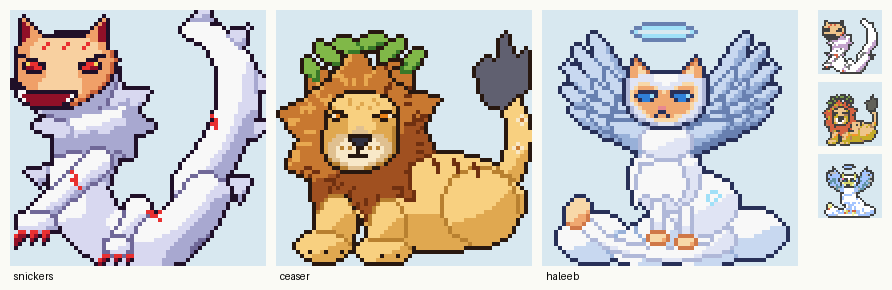
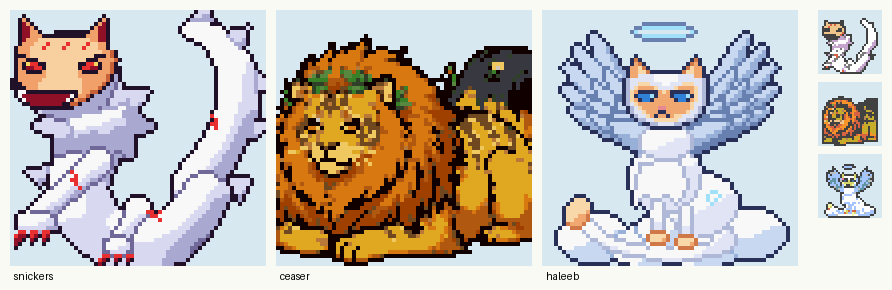
Ceaser from the new Gemini art; transparent-background art support
Ceaser's sprite is now converted from the bold, flat Gemini redraw
(source_front_v2.jpg): background cut out to transparency (so the
green laurel survives), tail tucked behind, reserved palette slots for
the leaves and tail tuft (--add-color), eyes sharpened by hand.
convert_sprite.py uses the alpha channel as the mask for transparent
images and no longer strips green from them. tools/prep_art.py cuts
plain-background art out.

Claude-Session: https://claude.ai/code/session_01BRCGKvtVfxSvTFq1kJgtBG

Changed region(s): [[0.3027, 0.0931, 0.6054, 0.931], [0.9081, 0.3103, 0.9989, 0.4966]]

diff --git a/emerald-remix/tools/convert_sprite.py b/emerald-remix/tools/convert_sprite.py
@@ -33,6 +33,7 @@ STAGE_FIT = {1: 50, 2: 58, 3: 64}
 # Back sprites are the player's own Pokémon, seen up close; the battle textbox covers their lower edge.
 BACK_FIT = {1: 56, 2: 62, 3: 64}
 TRANSPARENT = (0, 255, 0)
+EXTRA_COLORS = []  # colors always given a palette slot (--add-color), for small details like leaves
 LINE_SHARE = 0.25 # a block becomes outline color if at least this much of it is line work
 CONTRAST = 1.5    # how strongly small high-contrast details (eyes, glints) beat the block's main color
 
@@ -130,10 +131,15 @@ def clear(rgb, solid, spec):
 def load(src, recolors, lift=None, tint=(0, 0, 0), enlarges=(), crop=None, clears=()):
     im = Image.open(src)
     rgb = np.asarray(im.convert("RGB"), dtype=np.float32)
-    if "A" in im.convert("RGBA").getbands() and im.mode in ("RGBA", "LA", "P"):
-        # Transparent PNG (most pixel-art tools): see-through pixels are background.
-        alpha = np.asarray(im.convert("RGBA"))[..., 3]
-        rgb[alpha < 128] = TRANSPARENT
+    alpha = None
+    if im.mode in ("RGBA", "LA") or (im.mode == "P" and "transparency" in im.info):
+        # Transparent PNG (most pixel-art tools): see-through pixels are background, and green
+        # in the creature (leaves!) stays green instead of being keyed out.
+        alpha = np.asarray(im.convert("RGBA"))[..., 3] >= 128
+        if alpha.all():
+            alpha = None
+        else:
+            rgb[~alpha] = TRANSPARENT
     if enlarges:
         # Pad with green so an enlarged head near the edge isn't cut off, and shift every box to match.
         rgb = np.pad(rgb, ((PAD, PAD), (PAD, PAD), (0, 0)))
@@ -143,7 +149,12 @@ def load(src, recolors, lift=None, tint=(0, 0, 0), enlarges=(), crop=None, clear
         clears = [shift_box(s, PAD) for s in clears]
     for spec in enlarges:
         rgb = enlarge(rgb, spec)
-    solid = ~green_mask(rgb)
+    solid = ~green_mask(rgb) if alpha is None else np.zeros(rgb.shape[:2], bool)
+    if alpha is not None:
+        if enlarges:  # the image was padded and enlarged: transparent = exactly the key color
+            solid = (np.abs(rgb - np.asarray(TRANSPARENT)).sum(-1) > 0)
+        else:
+            solid = alpha
     if crop:
         # Keep only what's inside the box: frames a wide creature (wings, a long tail) so the
         # important part fills the sprite instead of shrinking everything.
@@ -154,7 +165,7 @@ def load(src, recolors, lift=None, tint=(0, 0, 0), enlarges=(), crop=None, clear
     for spec in clears:
         solid = clear(rgb, solid, spec)
     # Green spill on edge pixels: pull green down to the other channels.
-    spill = solid & (rgb[..., 1] > np.maximum(rgb[..., 0], rgb[..., 2]) + 20)
+    spill = solid & (rgb[..., 1] > np.maximum(rgb[..., 0], rgb[..., 2]) + 20) & (alpha is None)
     rgb[spill, 1] = np.maximum(rgb[spill, 0], rgb[spill, 2])
     ys, xs = np.where(solid)
     y0, y1, x0, x1 = ys.min(), ys.max() + 1, xs.min(), xs.max() + 1
@@ -386,7 +397,10 @@ def build(rgb, solid, fit, box, ncolors, method="hybrid", pal=None, pixel_art=Fa
         uniq = np.unique(rgb[solid].astype(int), axis=0)
         if len(uniq) <= ncolors:  # already few enough colors (e.g. a hand-drawn sprite)
             exact = sorted({to_gba(c) for c in uniq})
-        pal = exact if 0 < len(exact) <= ncolors else kmeans_palette(rgb[solid], ncolors)
+        if 0 < len(exact) <= ncolors:
+            pal = exact
+        else:
+            pal = kmeans_palette(rgb[solid], ncolors - len(EXTRA_COLORS)) + [to_gba(c) for c in EXTRA_COLORS]
     labels = np.full(solid.shape, -1, int)
     labels[solid] = nearest(rgb[solid], pal)
     line = min(range(len(pal)), key=lambda i: sum(pal[i]))
@@ -468,6 +482,8 @@ def main():
     ap.add_argument("--colors", type=int, default=15,
                     help="colors to pick (max 15); fewer gives cleaner, flatter shading and leaves free "
                          "slots for hand-painted details (tools/paint.py)")
+    ap.add_argument("--add-color", action="append", default=[], metavar="R,G,B",
+                    help="always keep this color (small details the palette picker would drop, e.g. leaves)")
     ap.add_argument("--crop", metavar="X0,Y0,X1,Y1", help="keep only this box of the source")
     ap.add_argument("--clear", action="append", default=[], metavar="X0,Y0,X1,Y1[:H0-H1]",
                     help="erase a box of the source, optionally only one hue range (e.g. a grass patch)")
@@ -482,6 +498,7 @@ def main():
     ap.add_argument("--contrast", type=float, default=CONTRAST)
     a = ap.parse_args()
     LINE_SHARE, CONTRAST = a.line_share, a.contrast
+    EXTRA_COLORS.extend(tuple(map(int, c.split(","))) for c in a.add_color)
     os.makedirs(a.out_dir, exist_ok=True)
     rgb, solid = load(a.source, a.recolor, a.lift_darks, tuple(map(int, a.dark_tint.split(","))), a.enlarge,
                       a.crop, a.clear)

diff --git a/emerald-remix/tools/prep_art.py b/emerald-remix/tools/prep_art.py
@@ -1,0 +1,66 @@
+#!/usr/bin/env python3
+"""Prepare AI art on a plain (white) background for convert_sprite.py.
+
+Usage: prep_art.py SOURCE OUT.png [move:X0,Y0,X1,Y1:DX,DY ...]
+
+Cuts the creature out (flood-fills the background from the image edges, so white inside the creature
+stays), drops loose specks, and can move parts (e.g. tuck a long tail behind the body, pasted behind)
+so the creature fits a square sprite. Writes a transparent PNG, so green details like leaves survive
+(a green-screen key would delete them).
+"""
+import sys
+
+import numpy as np
+from PIL import Image, ImageDraw
+
+KEY = (255, 0, 255)
+
+
+def main():
+    src, out, edits = sys.argv[1], sys.argv[2], sys.argv[3:]
+    im = Image.open(src).convert("RGB")
+    w, h = im.size
+    for seed in [(0, 0), (w - 1, 0), (0, h - 1), (w - 1, h - 1), (w // 2, 0), (w - 1, h // 2), (w // 2, h - 1), (0, h // 2)]:
+        if im.getpixel(seed) != KEY:
+            ImageDraw.floodfill(im, seed, KEY, thresh=40)
+    a = np.asarray(im)
+    rgba = np.dstack([a, np.where((a == KEY).all(-1), 0, 255).astype(np.uint8)])
+    img = Image.fromarray(rgba, "RGBA")
+    for e in edits:
+        op, box, delta = e.split(":")
+        assert op == "move", e
+        x0, y0, x1, y1 = map(int, box.split(","))
+        dx, dy = map(int, delta.split(","))
+        part = img.crop((x0, y0, x1, y1))
+        arr = np.asarray(img).copy()
+        arr[y0:y1, x0:x1, 3] = 0
+        under = Image.new("RGBA", img.size, (0, 0, 0, 0))
+        under.paste(part, (x0 + dx, y0 + dy))
+        img = Image.alpha_composite(under, Image.fromarray(arr, "RGBA"))
+    # Keep only big pieces: compression leaves specks along the old background edge.
+    arr = np.asarray(img).copy()
+    on = arr[..., 3] > 0
+    lab = np.zeros(on.shape, int)
+    sizes = [0]
+    n = 0
+    for y, x in zip(*np.nonzero(on)):
+        if lab[y, x]:
+            continue
+        n += 1
+        stack, count = [(y, x)], 0
+        lab[y, x] = n
+        while stack:
+            cy, cx = stack.pop()
+            count += 1
+            for ny, nx in ((cy - 1, cx), (cy + 1, cx), (cy, cx - 1), (cy, cx + 1)):
+                if 0 <= ny < on.shape[0] and 0 <= nx < on.shape[1] and on[ny, nx] and not lab[ny, nx]:
+                    lab[ny, nx] = n
+                    stack.append((ny, nx))
+        sizes.append(count)
+    sizes = np.asarray(sizes)
+    arr[..., 3] = np.where(sizes[lab] >= 2000, arr[..., 3], 0)
+    Image.fromarray(arr, "RGBA").save(out)
+
+
+if __name__ == "__main__":
+    main()

diff --git a/emerald-remix/docs/SPRITE_PROMPTS.md b/emerald-remix/docs/SPRITE_PROMPTS.md
@@ -62,6 +62,19 @@ or init image = your concept**, style image = the style sheet if the tool has a 
 
 ---
 
+## What actually works with chat image tools
+
+Chat image tools (Gemini, ChatGPT, Designer) **can't make real 64×64 pixel art**. They always paint a big
+picture and fake the pixel look. But that's fine: what converts well is art that is **bold and flat**:
+thick black outlines, a few flat colors, simple shading, plain white background, and a compact pose.
+Ceaser's second Gemini image (`graphics/legends/ceaser/source_front_v2.jpg`) is exactly that, and it
+became the sprite in the game. So with these tools, ask for clean cartoon art, not pixel art:
+
+> Redraw this exact character as clean cel-shaded cartoon art for a game sprite: thick black outlines,
+> flat colors with one shade and one highlight each, no texture, no fur strokes, no gradients. Big head,
+> big readable eyes. Compact pose that fits in a square. Facing left. Plain white background, nothing
+> else in the image.
+
 ## Prompts for chat image tools (Gemini, ChatGPT, Designer, Higgsfield)
 
 These draw big, smooth pictures unless told very precisely. Paste the style block, then the
